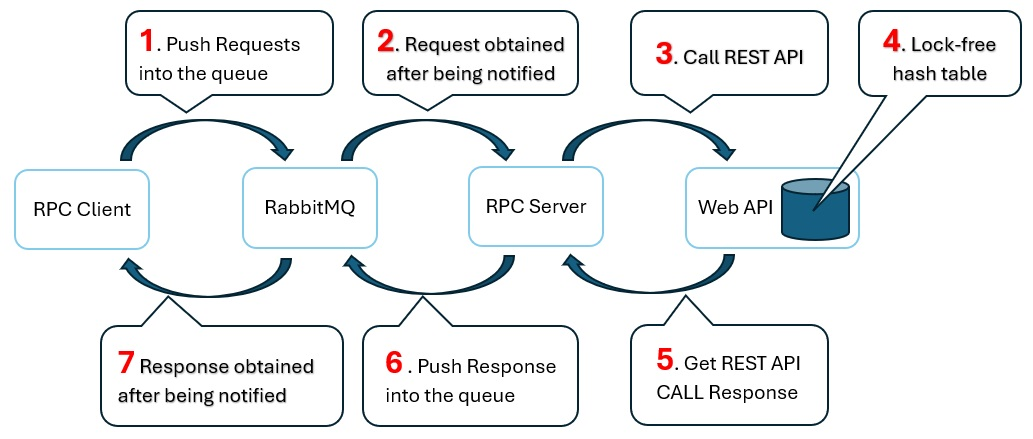
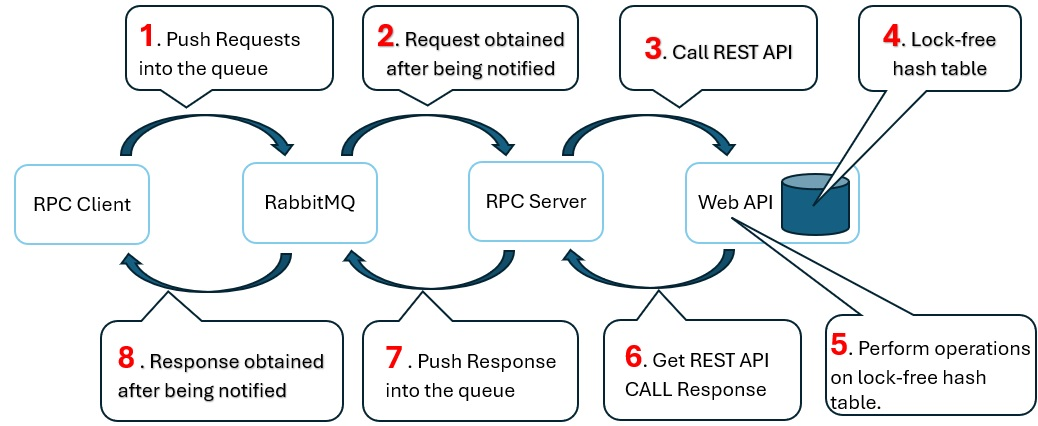
Update readme

diff --git a/README.md b/README.md
@@ -28,6 +28,8 @@ $${\color{red}Step\ 2}$$ The callback function of the RPC Server obtains request
 
 $${\color{red}Step\ 3}$$ The RPC Server calls corresponding REST Web Api. See [RPCServer.cs](https://github.com/daleiyang/LockFreeHashTable/blob/master/RPCServer/RPCServer.cs#L39) (line 39 to 51)
 
+$${\color{red}Step\ 4}$$ The Web API performs operations on lock-free hash table. See [RPCServer.cs](https://github.com/daleiyang/LockFreeHashTable/blob/master/WebApi/Program.cs#L10) (line 10 to 44)
+
 # Implementation of lock-free hash table
 
 ## How To Use 
